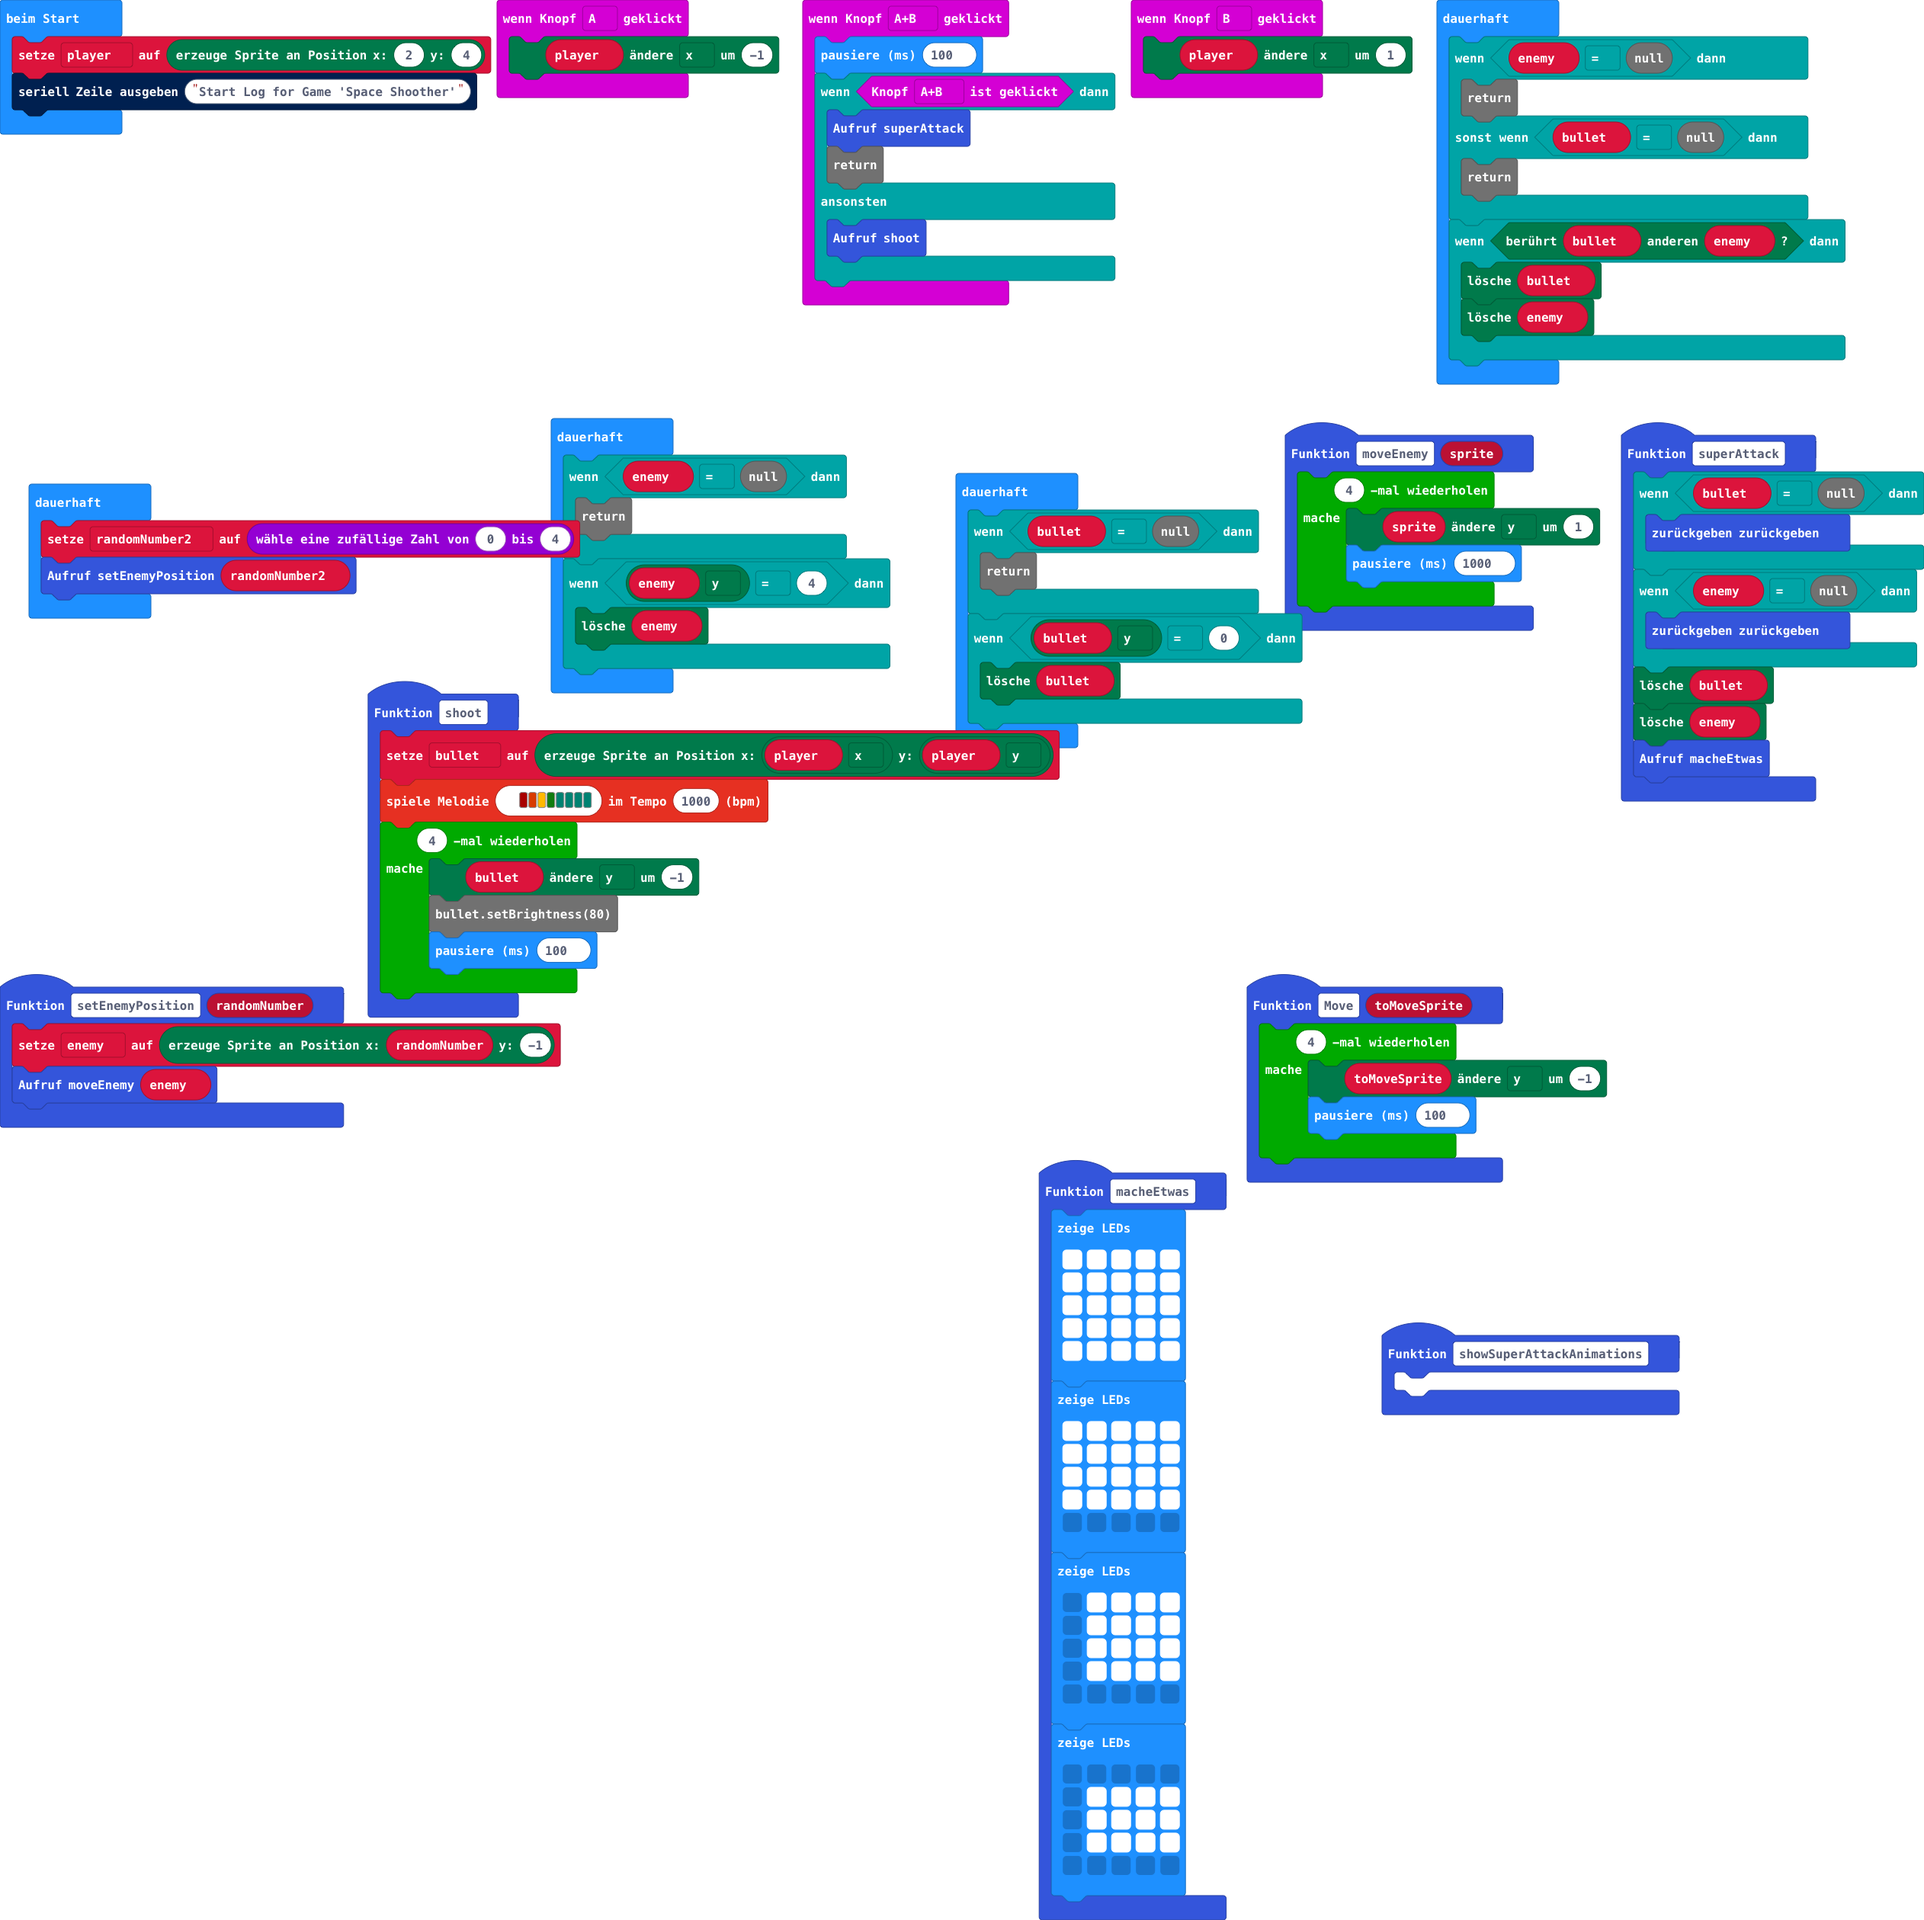
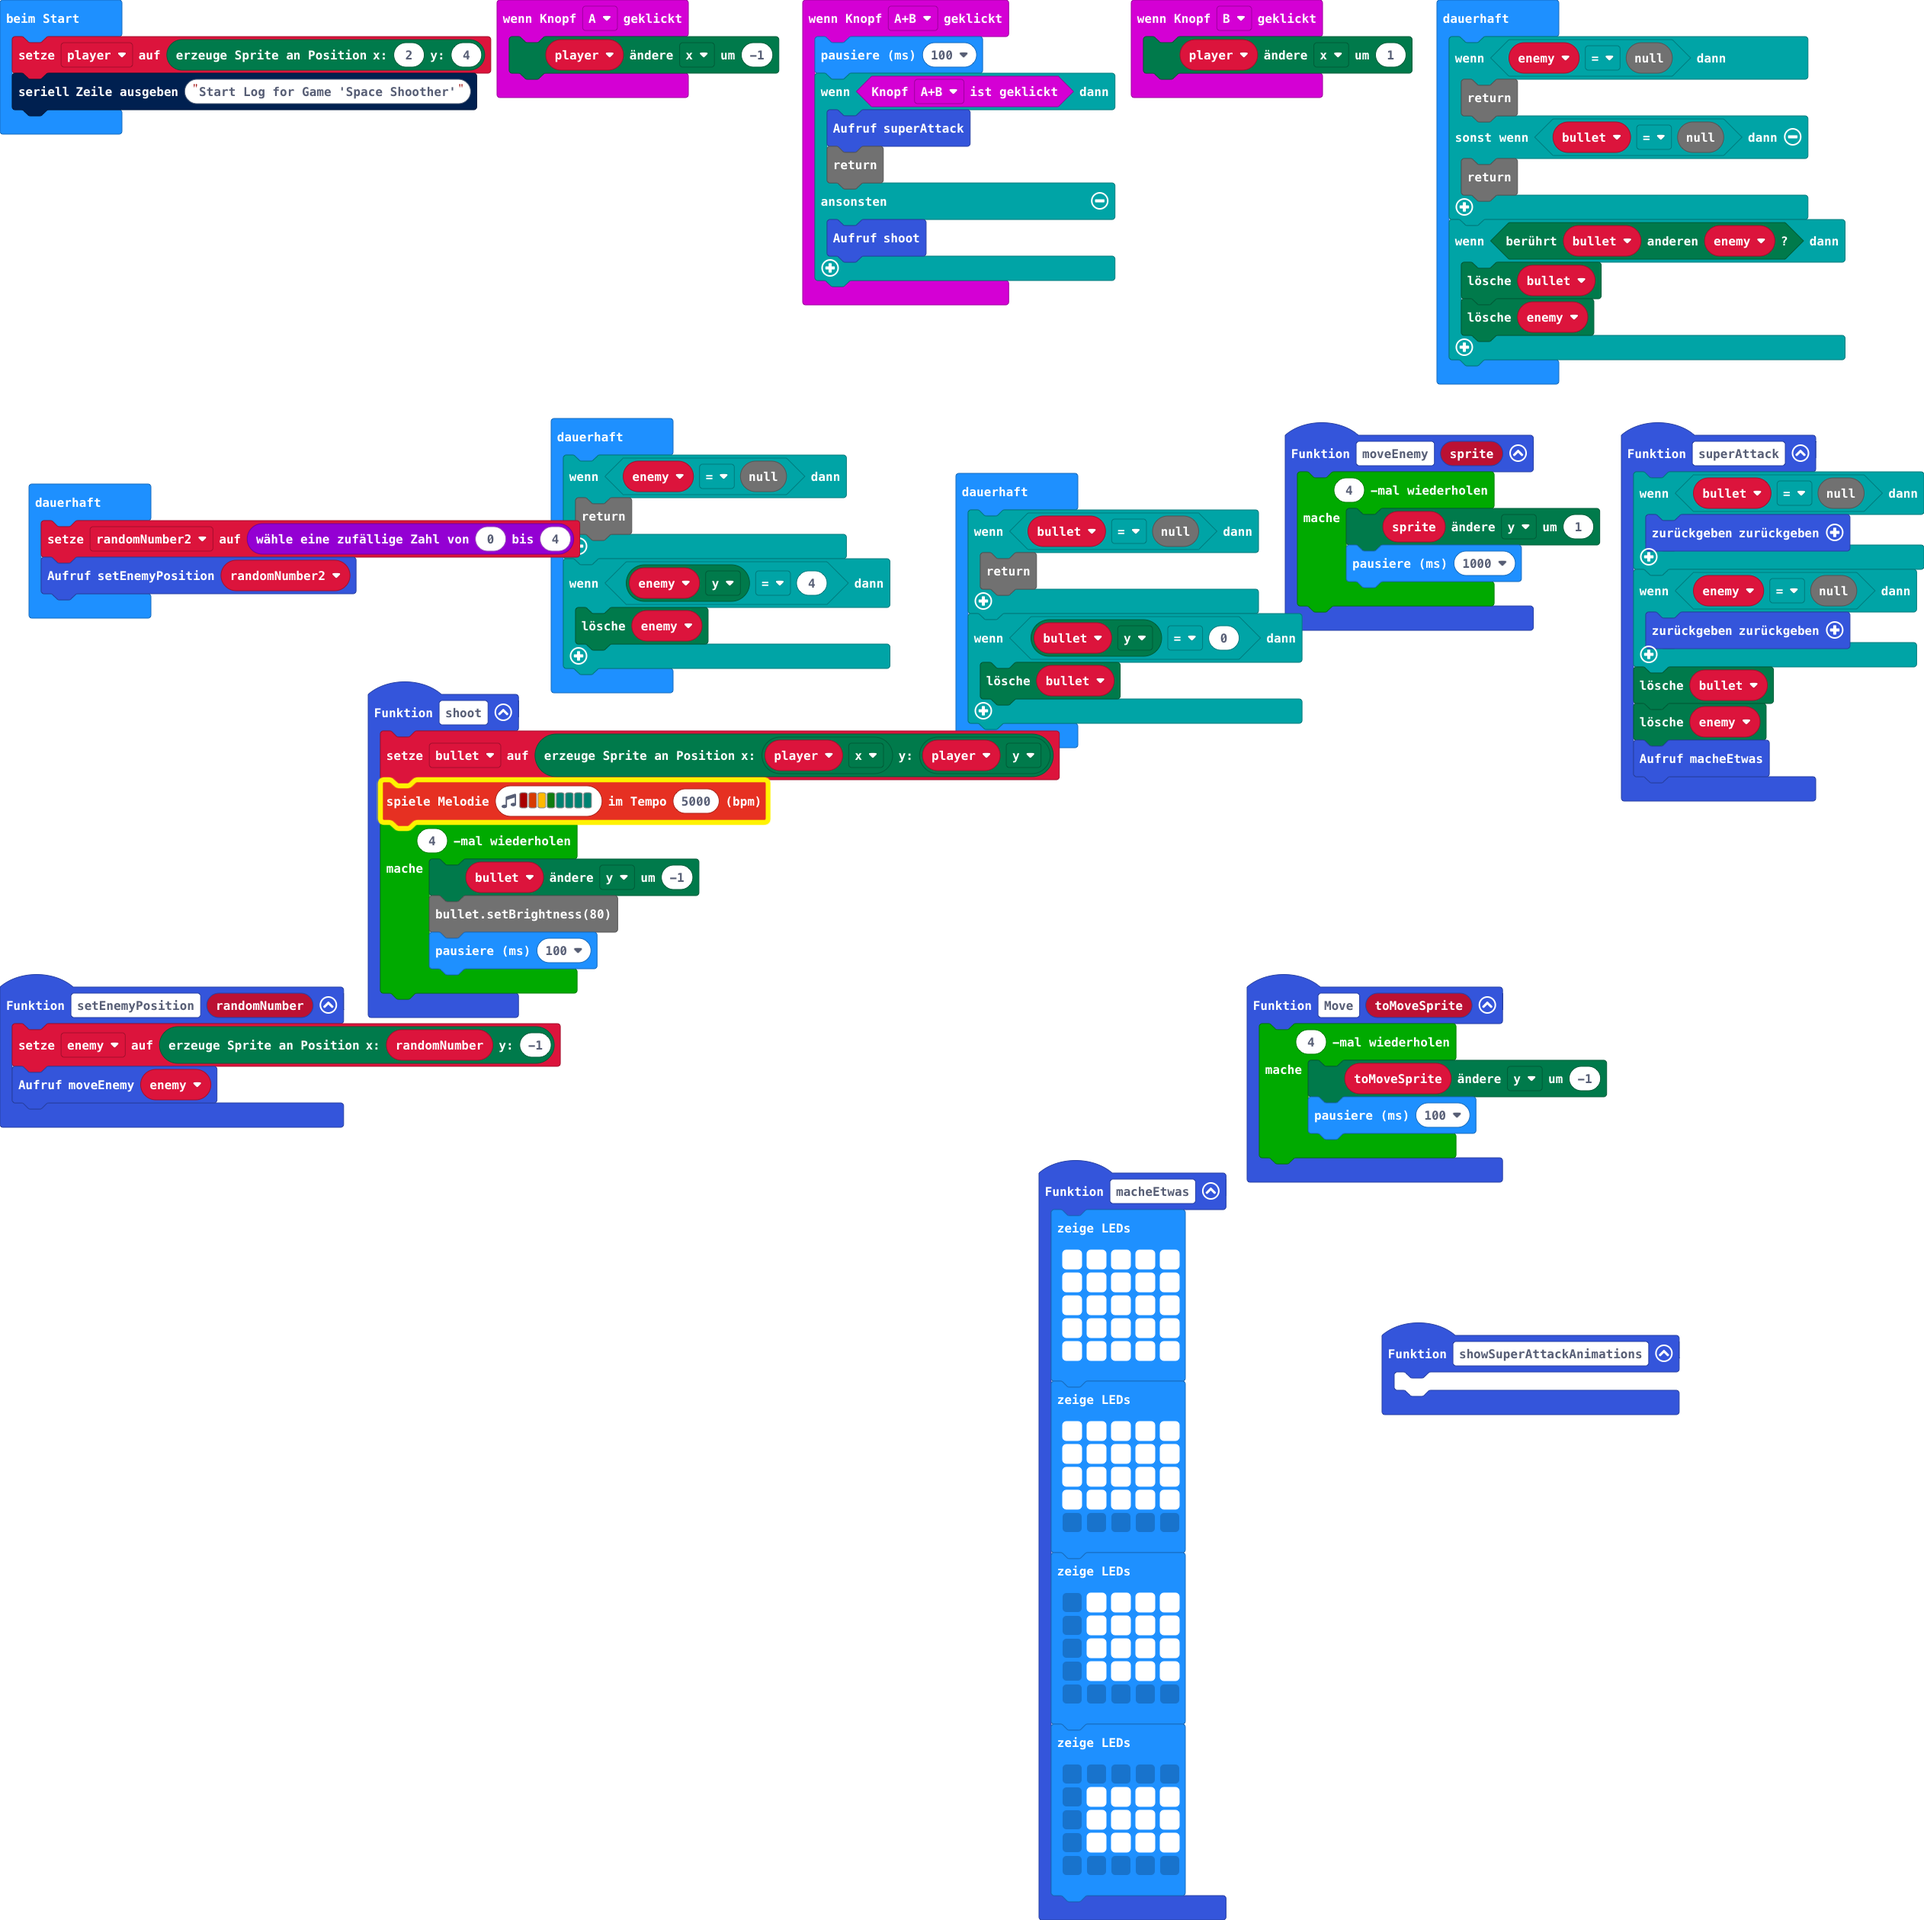
Aktualisiere main.blocks, main.ts

Changed region(s): [[0.1854, 0.4025, 0.4017, 0.4335]]

diff --git a/main.ts b/main.ts
@@ -42,7 +42,7 @@ function moveEnemy (sprite: game.LedSprite) {
 }
 function shoot () {
     bullet = game.createSprite(player.get(LedSpriteProperty.X), player.get(LedSpriteProperty.Y))
-    music.playMelody("C5 B A G F F F F ", 1000)
+    music.playMelody("C5 B A G F F F F ", 5000)
     for (let index = 0; index < 4; index++) {
         bullet.change(LedSpriteProperty.Y, -1)
         bullet.setBrightness(80)
